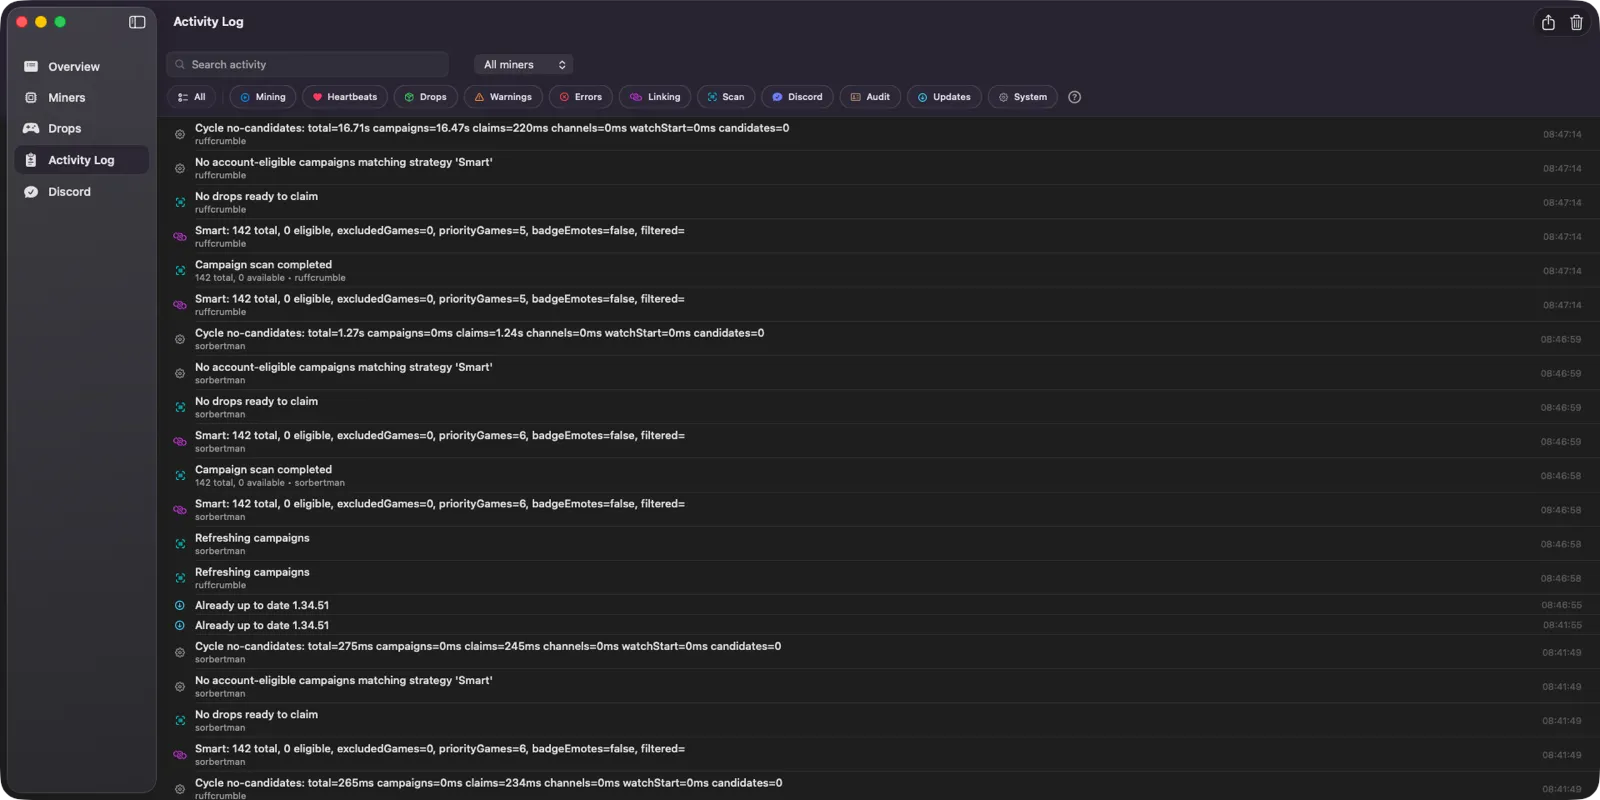
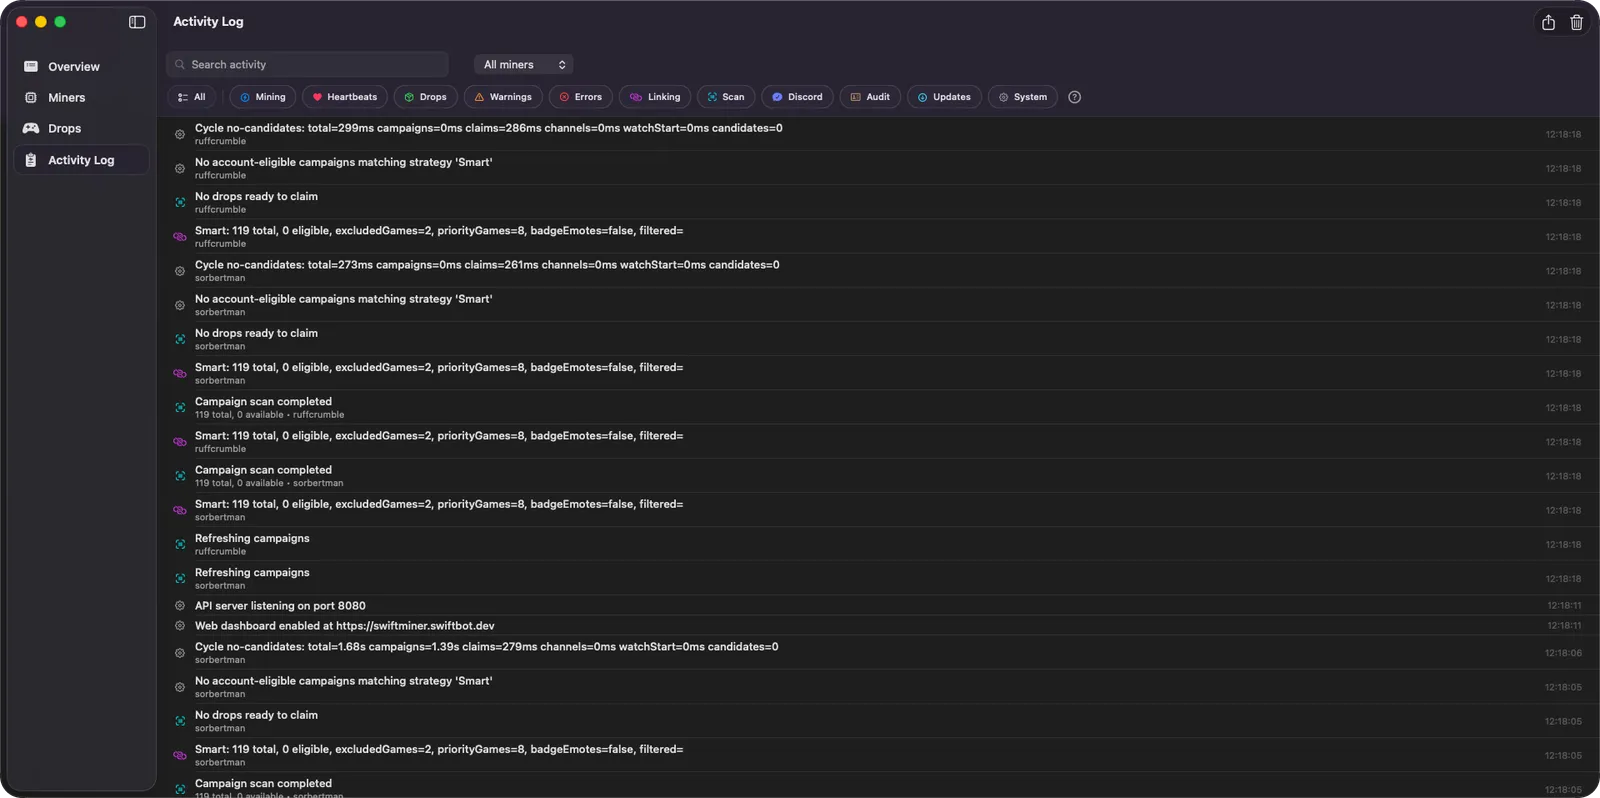
chore(website): refresh app screenshots for 1.40.1
Replaces the landing and help screenshots with captures of the current UI.
The previous set predated the Squad Health rename and the sidebar and card
restyling, so the shots contradicted the copy around them.

Each capture is cropped to the window rect, which drops the macOS drop shadow
the captures were taken with. The alpha is then rebuilt as a rounded rectangle
at the final size rather than resampled with the colour channels: resizing a
premultiplied edge with Lanczos leaves ringing along the window border, which
is what erased the crisp edge on the previous pass. Shadow bleed inside the
corner arcs is replaced with the nearest opaque pixel first, so downscaling
cannot smear black into the rounded edge. The corner radius is fitted per
capture scale (26px on the 2x window shots, 16px on the 1x Settings pane).

The Overview hero and the "whole group at a glance" card had been distinguished
by miner count, and the refreshed Overview is a five-miner shot, so the hero now
carries a two-miner capture and the five-miner one replaces the stale
multi-user pair.

webui-preview is now a light/dark pair driven by the existing data-screenshot
swap, rather than a single file. It had the drop shadow baked in while
.webui-showcase-image also applies one in CSS; the tight crop leaves the shadow
to the stylesheet. Its aspect changed, so the width and height attributes move
with it to keep the reserved space right.

Bumps screenshotAssetVersion as site.js asks, since the swapped URLs are
[…]

diff --git a/Website/public/index.html b/Website/public/index.html
@@ -319,7 +319,7 @@
                             <h3 class="text-2xl md:text-3xl font-bold mb-3 text-slate-900 dark:text-white">Web Dashboard</h3>
                             <p class="text-slate-500 dark:text-gray-400 text-sm md:text-base leading-relaxed">Check progress and control miners from your phone, tablet, or any browser on your network without keeping the main Mac app in front.</p>
                         </div>
-                        <img src="./assets/landing/webui-preview.webp" width="1254" height="1072" loading="lazy" decoding="async" alt="SwiftMiner Web Dashboard showing active Twitch Drops miners in a browser" class="webui-showcase-image">
+                        <img data-screenshot="webui-preview" src="./assets/landing/webui-preview-dark.webp" width="1344" height="763" loading="lazy" decoding="async" alt="SwiftMiner Web Dashboard showing a linked Twitch account's drop progress and priorities in a browser" class="webui-showcase-image">
                     </div>
                 </div>
             </div>

diff --git a/Website/public/help/best-practices/index.html b/Website/public/help/best-practices/index.html
@@ -83,7 +83,7 @@
                         <source srcset="../assets/img/overview-dark.webp" media="(prefers-color-scheme: dark)">
                         <img src="../assets/img/overview-light.webp" alt="SwiftMiner Overview dashboard" loading="lazy" decoding="async">
                     </picture>
-                    <div class="screenshot-caption">The Overview banner summarises fleet uptime, last poll and health, which is usually enough to tell if a session needs attention.</div>
+                    <div class="screenshot-caption">The Overview banner summarises average uptime, last poll and squad health, which is usually enough to tell if a session needs attention.</div>
                 </div>
 
                 <div class="screenshot-wrap">

diff --git a/Website/public/help/settings/index.html b/Website/public/help/settings/index.html
@@ -127,7 +127,7 @@
                         <source srcset="../assets/img/settings-accounts-dark.webp" media="(prefers-color-scheme: dark)">
                         <img src="../assets/img/settings-accounts-light.webp" alt="SwiftMiner Accounts settings" loading="lazy" decoding="async">
                     </picture>
-                    <div class="screenshot-caption">Accounts — authorised Twitch accounts, nicknames and the operator flag.</div>
+                    <div class="screenshot-caption">Accounts — authorised Twitch accounts, nicknames, the operator toggle and each miner's picture source.</div>
                 </div>
 
                 <ul>

diff --git a/Website/public/assets/js/site.js b/Website/public/assets/js/site.js
@@ -98,7 +98,7 @@ document.addEventListener('DOMContentLoaded', () => {
     
     // Bump whenever the landing screenshots are regenerated — the swapped URLs
     // are otherwise identical, so returning visitors keep the cached old ones.
-    const screenshotAssetVersion = '20260727';
+    const screenshotAssetVersion = '20260902';
 
     function applyTheme(isLight) {
         const theme = isLight ? 'light' : 'dark';
